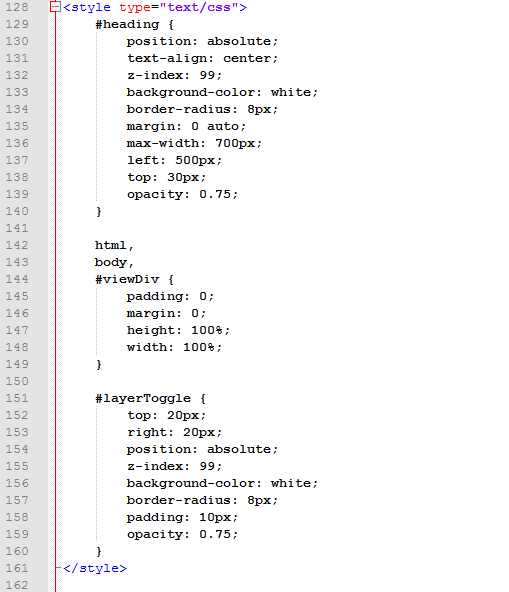
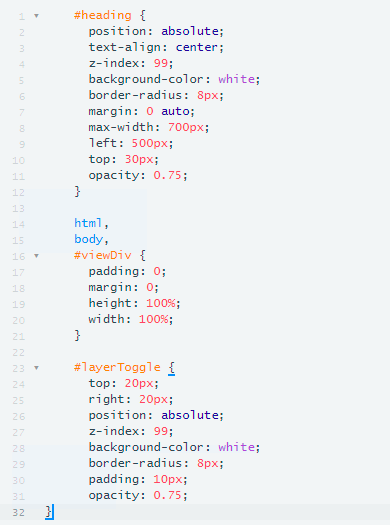
9.6updates

diff --git a/FMESERVER_RESTAPI9CustomApplications/9.6.ExerciseVisualization.md b/FMESERVER_RESTAPI9CustomApplications/9.6.ExerciseVisualization.md
@@ -84,7 +84,7 @@ The above code creates a title and checkbox list on the web page. These checkbox
 
 The styling components found in the CSS panel, describe how each HTML element is displayed on the screen.
 
-![](./Images/9.6.3.csspanel.png)
+![](./Images/9.6.3.css.png)
 
 <br>For the heading, we are giving it a z-index of 99 to ensure that it is placed in front of the map (line 4). It has a white background (line 5) and has an absolute position on the screen (line 2). Which means as the screen size changes the heading will remain in the same place.
 
@@ -96,7 +96,7 @@ The layer toggle which contains the layers available will be formatted similarly
 
 <br>**5) Navigate to the Projects in your FME Server**
 
-Open FME Server by visiting https://localhost/fmeserver. Sign into the account as the admin. The username will be admin and the password will be admin as well. Next, look on the left-hand panel and click Projects.
+Open FME Server by visiting https://localhost:8443/fmeserver. Sign into the account as the admin. The username will be admin and the password will be admin as well. Next, look on the left-hand panel and click Projects.
 
 <br>**6) Import the Project Folders**
 
@@ -138,14 +138,14 @@ Find Other Ways to Run this Workspace. Select, Create a Webhook. Click OK to cre
 
 **Copy the Web Service URL Example.**
 
-![](./Images/9.6.6.TransportationWebs.png)
+![](./Images/9.6.6.TransportationWeb.png)
 
 
 Paste the Webhook with the Authorization with Query String into the URLs section of the transporationLyr (line 14).
 
 ```
 var transportationLyr = new KMLLayer({
-          url: "https://FMETRAINING/fmedatastreaming/WebApplication/webapp.skytrains.fmw?&token=<youtoken>", // Skytrain Layer
+          url: "https://localhost:8443/fmedatastreaming/WebApplication/webapp.skytrains.fmw?&token=<youtoken>", // Skytrain Layer
           id: "skytrainlayer",
           visible: false
         });
@@ -156,7 +156,7 @@ Go to Run Workspace. Select, the WebApplication Respository and the Workspace we
 
 ```
 var skytrainbufferLyr = new KMLLayer({
-          url: "https://FMETRAINING/fmedatastreaming/WebApplication/webapp.skytrainbuffer.fmw?token=<yourtoken>", // Skytrain Buffer Layer
+          url: "https://localhost:8443/fmedatastreaming/WebApplication/webapp.skytrainbuffer.fmw?token=<yourtoken>", // Skytrain Buffer Layer
           id: "skytrainbufferlayer",
           visible: false
         });
@@ -167,7 +167,7 @@ Go to Run Workspace. Select, the WebApplication Respository and the Workspace we
 
 ```
 var parksLyr = new KMLLayer({
-          url: "https://FMETRAINING/fmedatastreaming/WebApplication/webapp.parks.fmw?SourceDataset_MITAB=%24(FME_SHAREDRESOURCE_DATA)%2FWebApplication%2FParks%2FParks.tab&token=<youtoken>", // Parks Layer
+          url: "https://localhost:8443/fmedatastreaming/WebApplication/webapp.parks.fmw?SourceDataset_MITAB=%24(FME_SHAREDRESOURCE_DATA)%2FWebApplication%2FParks%2FParks.tab&token=<youtoken>", // Parks Layer
           id: "parkslayer",
           visible: false
         });
@@ -176,7 +176,7 @@ Go to Run Workspace. Select, the WebApplication Respository and the Workspace we
 
 ```
 var foodLyr = new KMLLayer({
-         url: "https://FMETRAINING/fmedatastreaming/WebApplication/webapp.foodTrucks.fmw?DestDataset_OGCKML=%24(FME_SHAREDRESOURCE_DATA)%2FSienna%2FOutput%2FfoodTrucks.kml&token=<youtoken>", // Food Truck Layer
+         url: "https://localhost:8443/fmedatastreaming/WebApplication/webapp.foodTrucks.fmw?DestDataset_OGCKML=%24(FME_SHAREDRESOURCE_DATA)%2FSienna%2FOutput%2FfoodTrucks.kml&token=<youtoken>", // Food Truck Layer
          id: "foodlayer",
          visible: false
        });
@@ -184,13 +184,13 @@ var foodLyr = new KMLLayer({
 
 Now, all of the Webhooks are in place. However, the URL with FMETRAINING will not work. We need to replace FMETRAINING to your Public IP Address.
 
-<br>**9) Update FMETRAINING to your Public IP Address in the Webhooks**
+<br>**9) Update localhost to your Public IP Address in the Webhooks**
 
 Now, we are going to find our Public IP Address by visiting [whatismyip.com.](https://www.whatismyip.com/what-is-my-public-ip-address/)
 
 Next, we are going to copy the URL listed as the Public IP Address.
 
-Now, we can modify the Webhooks we previously inserted in the last step. Find all instances of FMETRAINING and replace them with the IP Address. These should be located on line 14, 20, 25, and 30.
+Now, we can modify the Webhooks we previously inserted in the last step. Find all instances of localhost and replace them with the IP Address. These should be located on line 14, 20, 25, and 30.
 
 
 <script async src="//jsfiddle.net/siennaemery/wby1fto4/6/embed/"></script>
